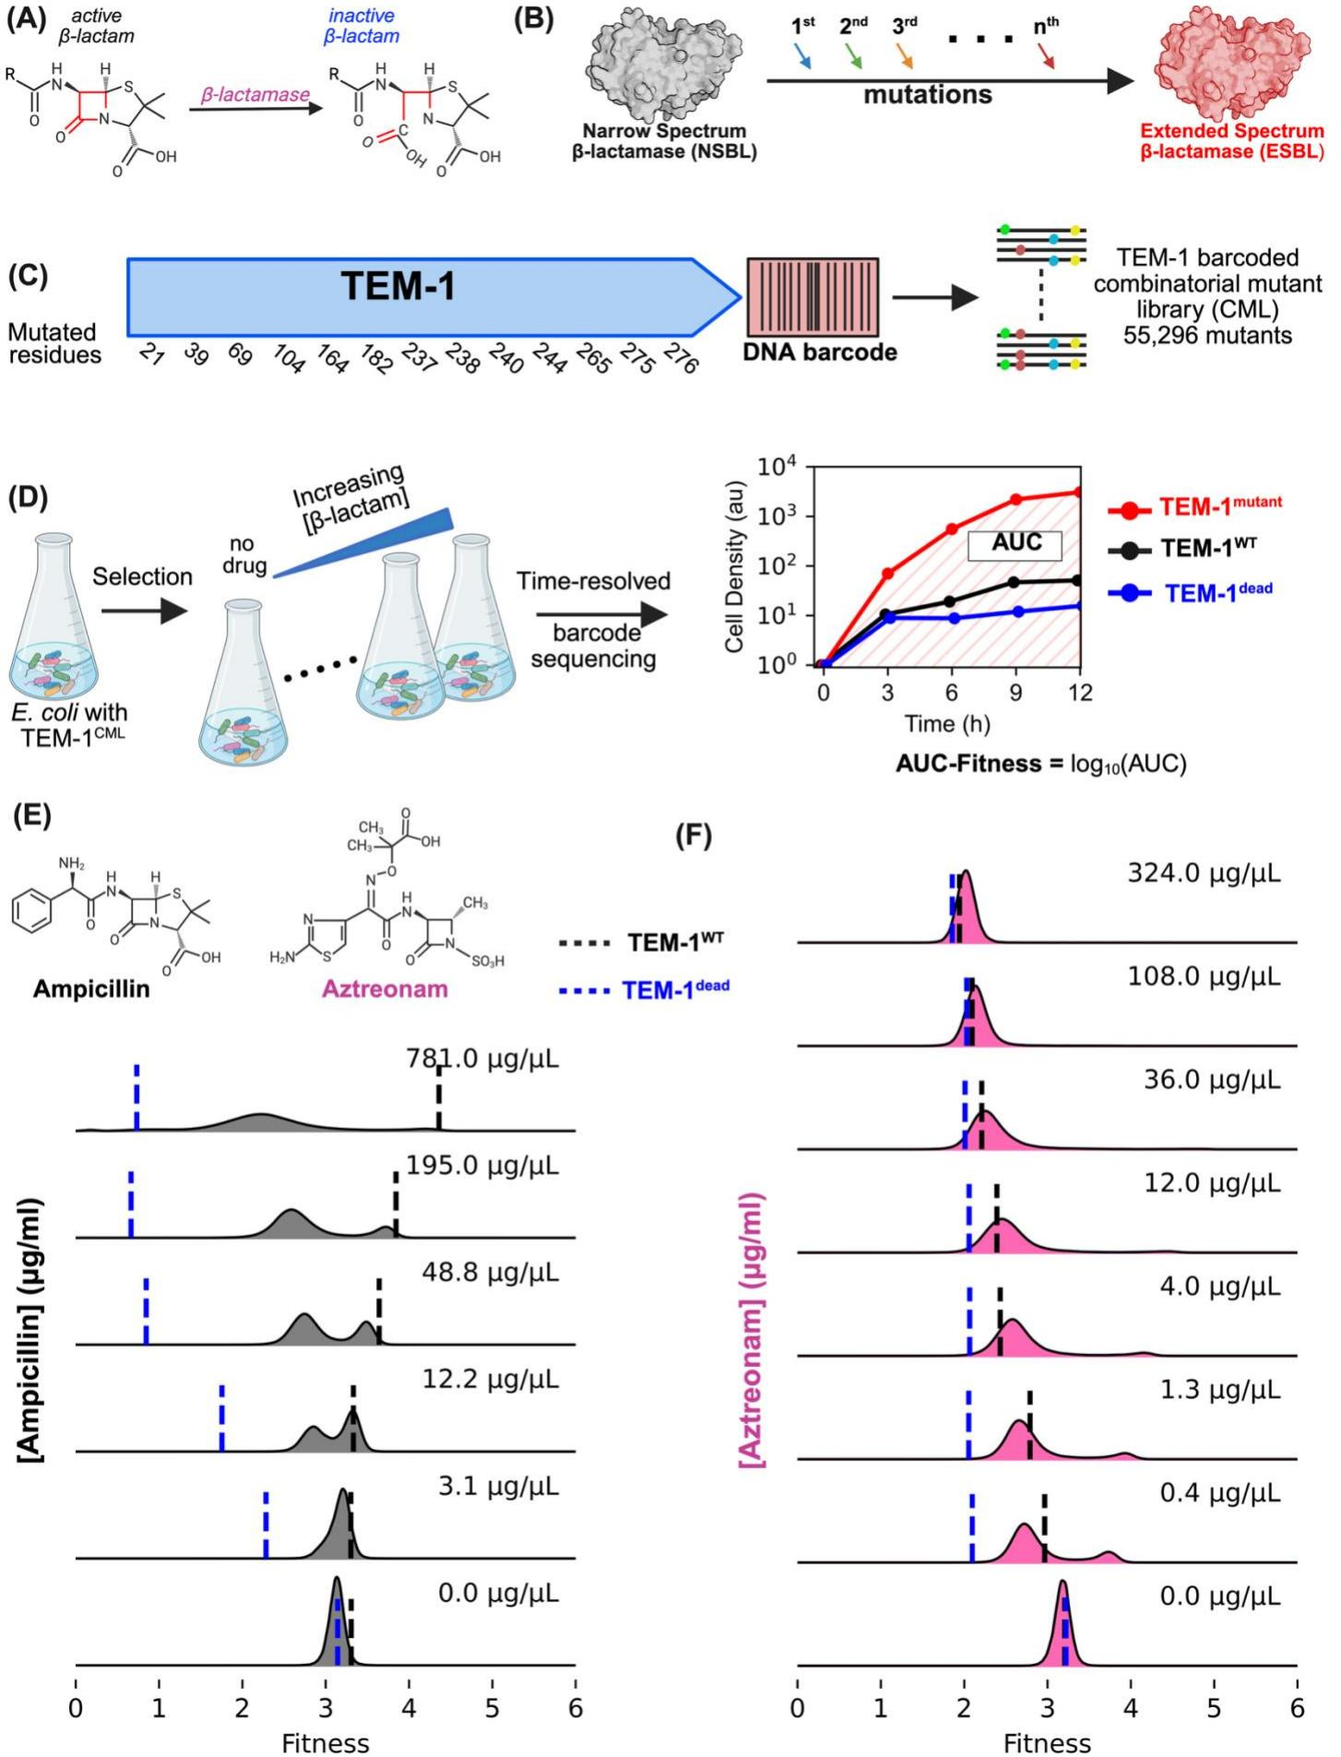
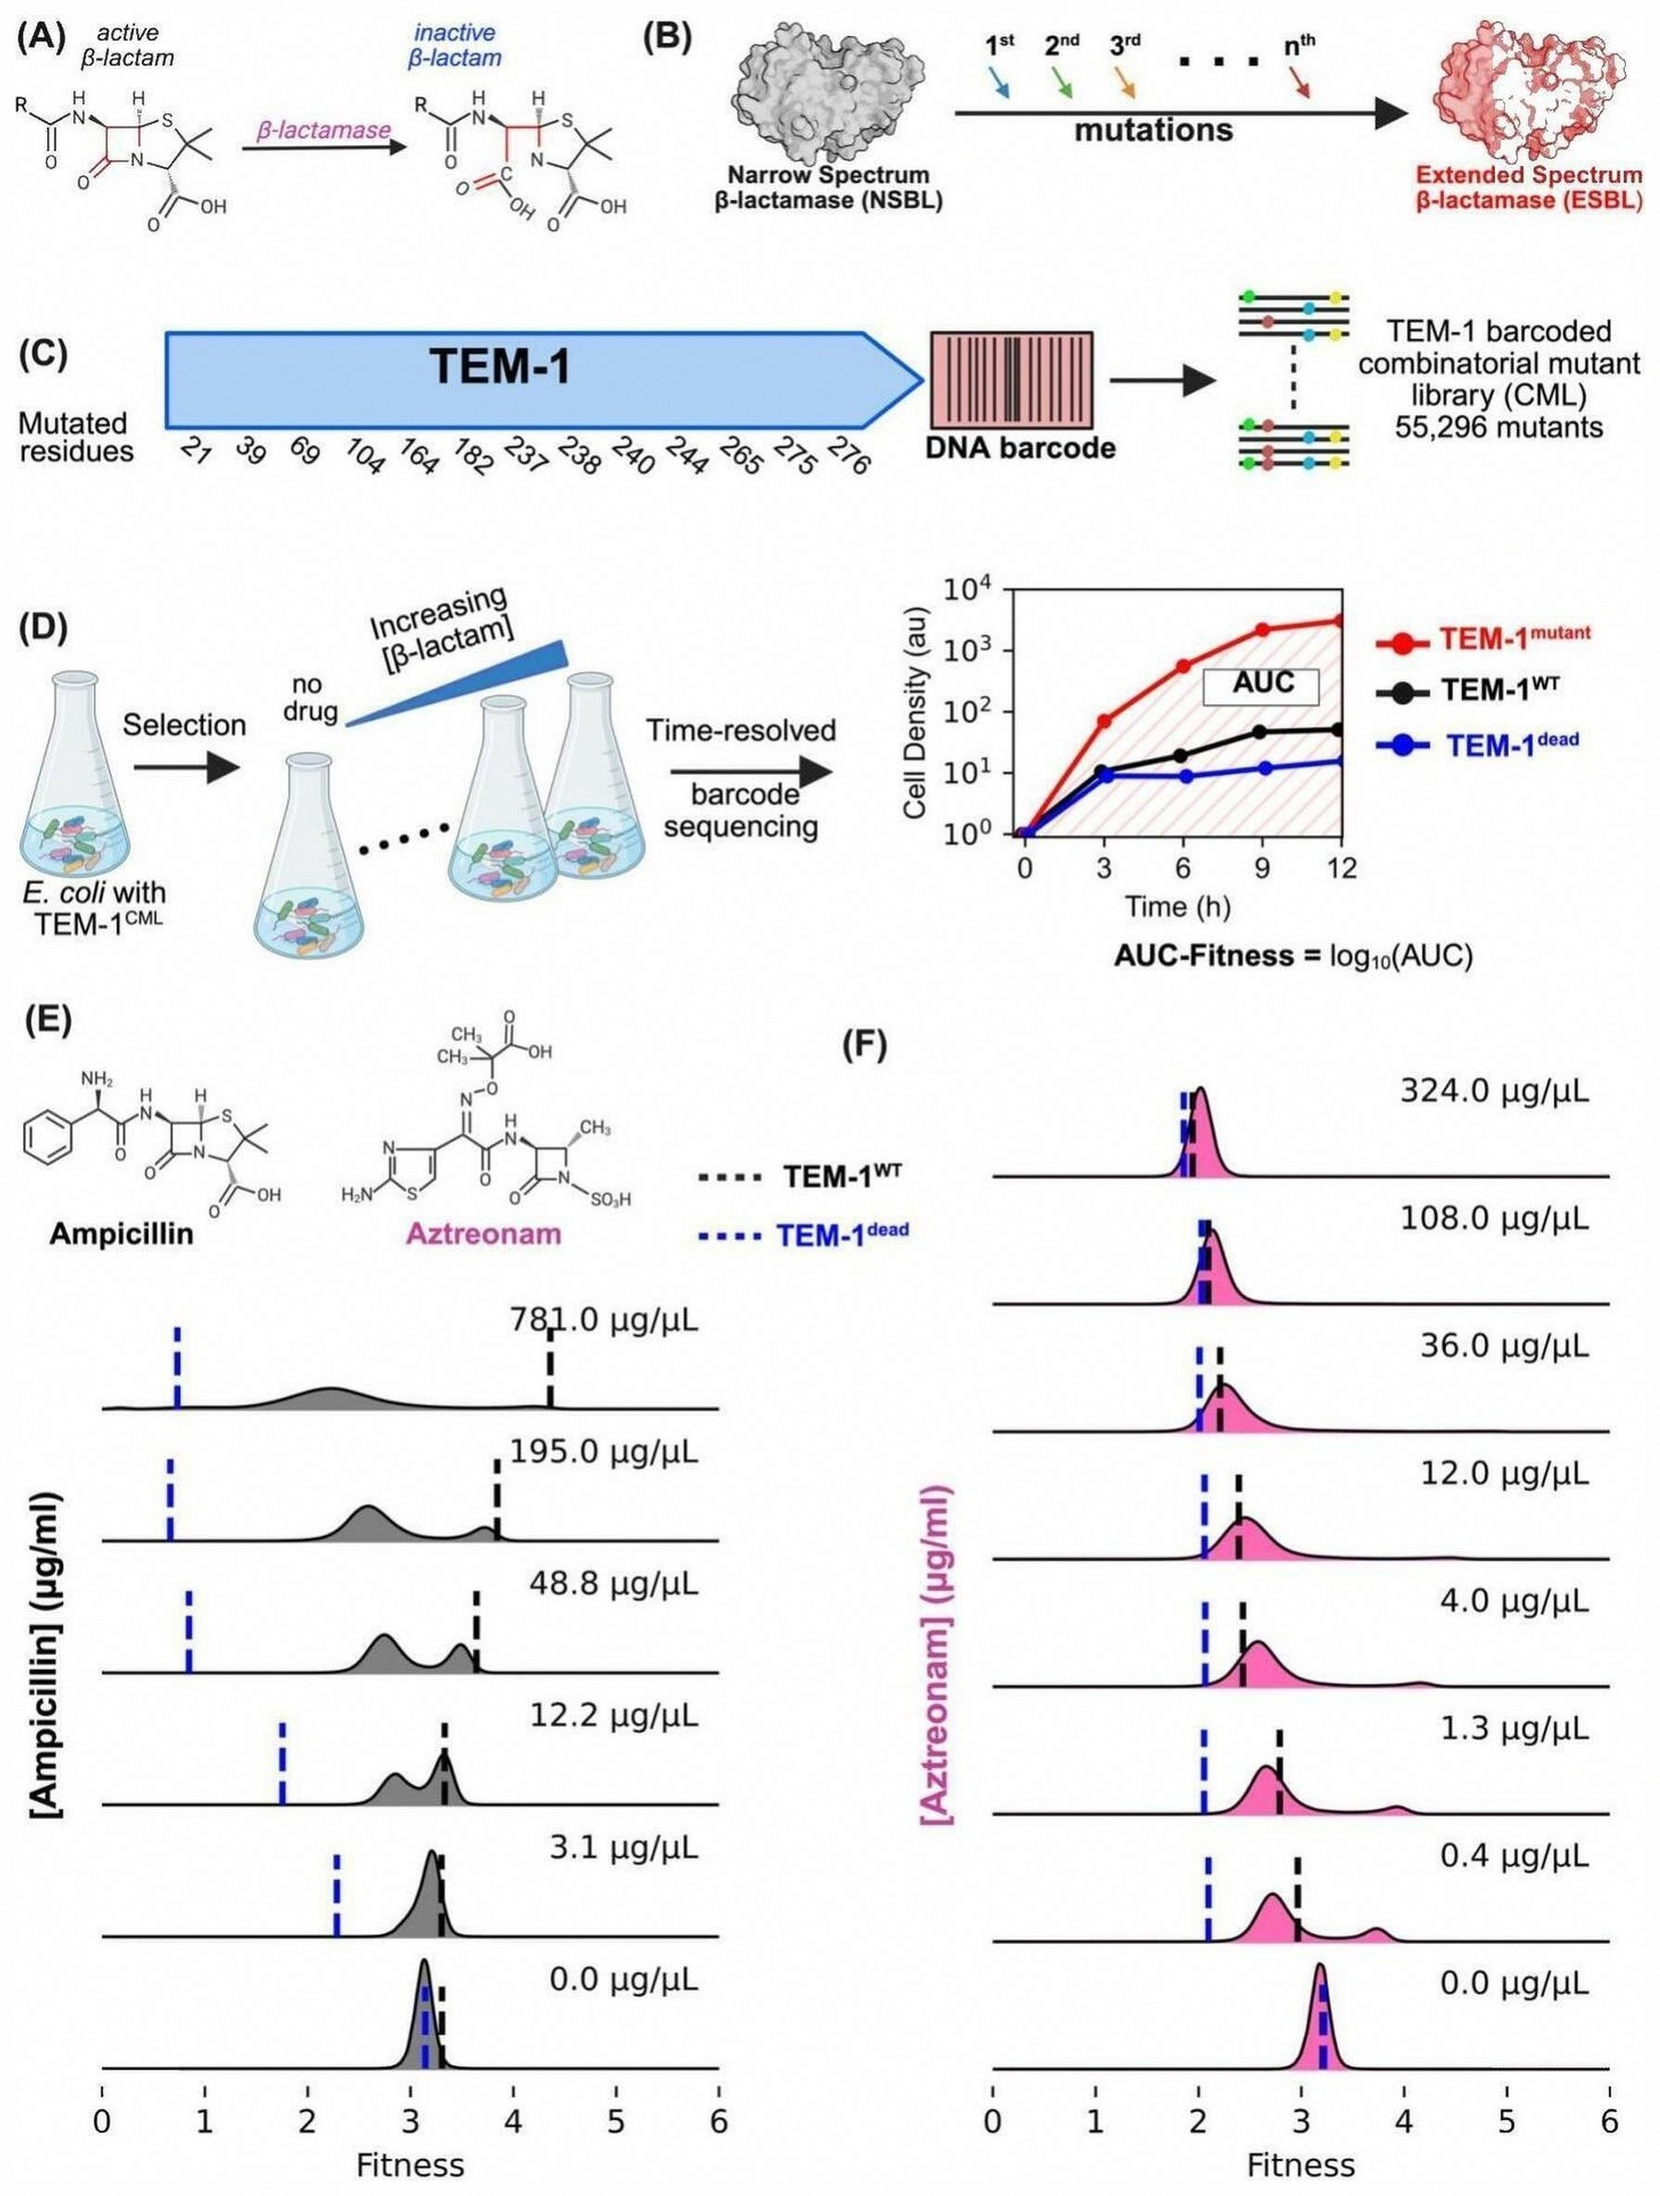
Upgrade figure quality, center content at 720px, add paper texture
Replace science figures with higher-resolution source images and serve
them at 720px with 2x density and quality=95. Standardize max-width and
margin-inline centering across all science pages. Add subtle paper-grain
body texture, enlarge small avatars, expand antibiotic resistance
publication list, and include figure sanitization script.

diff --git a/src/styles/global.css b/src/styles/global.css
@@ -149,6 +149,8 @@ body {
   font-weight: 400;
   color: var(--color-gray-600);
   background-color: var(--color-white);
+  background-image: url('/textures/paper-grain.png');
+  background-repeat: repeat;
 }
 
 h1, h2, h3, h4, h5, h6 {

diff --git a/scripts/sanitize-figures.py b/scripts/sanitize-figures.py
@@ -1,0 +1,297 @@
+#!/usr/bin/env python3
+"""
+Asset sanitization pipeline for Toprak Lab science figures.
+
+Processes all images in src/assets/images/science/:
+  1. Backup originals
+  2. Trim whitespace borders + add uniform 16px margin (unless skip_trim)
+  3. Normalize color profile to sRGB
+  4. LANCZOS upscale (if width < 1800px)
+  5. Apply subtle brush texture overlay on white areas (figures only)
+  6. Save (PNG for transparency/line-art, JPEG 95 for photos)
+
+Also generates public/textures/paper-grain.png (512x512 tileable).
+"""
+
+import shutil
+import subprocess
+from pathlib import Path
+
+import numpy as np
+from PIL import Image
+
+# ── Paths ──
+ROOT = Path(__file__).resolve().parent.parent
+SCIENCE_DIR = ROOT / "src" / "assets" / "images" / "science"
+ORIGINALS_DIR = SCIENCE_DIR / ".originals"
+TEXTURES_DIR = ROOT / "public" / "textures"
+
+TARGET_WIDTH = 1800  # 2.5x the 720px CSS max-width
+LOGO_TARGET = 1024   # 2x the 512px original for retina at 48px CSS
+MARGIN_PX = 16
+TEXTURE_OPACITY = 0.035  # ~3.5%
+NOISE_AMPLITUDE = 10     # 0-255 scale
+
+# Images and their properties
+IMAGES = {
+    "palmer-2015-delayed-commitment.jpg":       {"is_logo": False, "skip_trim": False, "format": "jpg"},
+    "palmer-2015-fitness-landscape.jpg":        {"is_logo": False, "skip_trim": False, "format": "jpg"},
+    "chevereau-2015-evolutionary-dynamics.jpg": {"is_logo": False, "skip_trim": False, "format": "jpg"},
+    "lyon-2025-fig1.jpg":                       {"is_logo": False, "skip_trim": False, "format": "jpg"},
+    "lyon-2025-fig3.jpg":                       {"is_logo": False, "skip_trim": False, "format": "jpg"},
+    "gaszek-2025-fig1.jpg":                     {"is_logo": False, "skip_trim": False, "format": "jpg"},
+    "gaszek-2025-fig2.jpg":                     {"is_logo": False, "skip_trim": False, "format": "jpg"},
+    "biomarker-pipeline-schematic.png":         {"is_logo": False, "skip_trim": False, "format": "png"},
+    "coskun-2025-fig1.png":                     {"is_logo": False, "skip_trim": False, "format": "png"},
+    "earlymarker-logo.png":                     {"is_logo": True,  "skip_trim": True,  "format": "png"},
+}
+
+
+def run_cmd(cmd: list[str], desc: str = "") -> subprocess.CompletedProcess:
+    """Run a shell command, raise on failure."""
+    print(f"  {desc}: {' '.join(str(c) for c in cmd)}")
+    result = subprocess.run(cmd, capture_output=True, text=True)
+    if result.returncode != 0:
+        print(f"  ERROR: {result.stderr.strip()}")
+        raise RuntimeError(f"Command failed: {' '.join(str(c) for c in cmd)}")
+    return result
+
+
+def backup(src: Path):
+    """Copy original to .originals/ if not already backed up."""
+    ORIGINALS_DIR.mkdir(parents=True, exist_ok=True)
+    dest = ORIGINALS_DIR / src.name
+    if not dest.exists():
+        shutil.copy2(src, dest)
+        print(f"  Backed up → {dest.name}")
+    else:
+        print(f"  Backup exists: {dest.name}")
+
+
+def trim_whitespace(img_path: Path, tmp_dir: Path) -> Path:
+    """Trim whitespace borders with ImageMagick, then add 16px uniform margin."""
+    trimmed = tmp_dir / f"trimmed_{img_path.name}"
+
+    # ImageMagick trim: flatten alpha onto white, add 1px white border so
+    # -trim always references pure white, then trim with 5% fuzz to catch
+    # near-white backgrounds (~249-252 per channel).
+    run_cmd(
+        [
+            "magick", str(img_path),
+            "-background", "white", "-flatten",
+            "-bordercolor", "white", "-border", "1",
+            "-fuzz", "5%", "-trim", "+repage",
+            str(trimmed),
+        ],
+        desc="Trim",
+    )
+
+    # Add uniform margin with Pillow
+    img = Image.open(trimmed)
+    new_w = img.width + 2 * MARGIN_PX
+    new_h = img.height + 2 * MARGIN_PX
+
+    # Detect background color from corners for margin fill
+    bg_color = _detect_bg_color(img)
+    padded = Image.new(img.mode, (new_w, new_h), bg_color)
+    padded.paste(img, (MARGIN_PX, MARGIN_PX))
+    padded.save(trimmed)
+    print(f"  Added {MARGIN_PX}px margin → {new_w}×{new_h}")
+
+    return trimmed
+
+
+def _detect_bg_color(img: Image.Image):
+    """Sample corner pixels to detect background color."""
+    pixels = []
+    w, h = img.size
+    for x, y in [(0, 0), (w-1, 0), (0, h-1), (w-1, h-1)]:
+        pixels.append(img.getpixel((x, y)))
+
+    if img.mode == "RGBA":
+        return tuple(int(np.mean([p[i] for p in pixels])) for i in range(4))
+    elif img.mode == "RGB":
+        return tuple(int(np.mean([p[i] for p in pixels])) for i in range(3))
+    else:
+        return int(np.mean(pixels))
+
+
+def normalize_color_profile(img_path: Path, tmp_dir: Path) -> Path:
+    """Strip embedded profiles, normalize to sRGB 8-bit."""
+    output = tmp_dir / f"srgb_{img_path.name}"
+    run_cmd(
+        ["magick", str(img_path), "-strip", "-colorspace", "sRGB", "-depth", "8", str(output)],
+        desc="Color profile"
+    )
+    return output
+
+
+def pil_upscale(img_path: Path, tmp_dir: Path, target_w: int) -> Path:
+    """LANCZOS upscale to target width — clean and sharp for scientific figures."""
+    img = Image.open(img_path)
+    if img.width >= target_w:
+        print(f"  Skip upscale: {img.width}px >= {target_w}px target")
+        return img_path
+    ratio = target_w / img.width
+    new_h = int(img.height * ratio)
+    resized = img.resize((target_w, new_h), Image.LANCZOS)
+    output = tmp_dir / f"upscaled_{img_path.name}"
+    resized.save(output, "PNG")
+    print(f"  LANCZOS resize {img.width}x{img.height} -> {target_w}x{new_h}")
+    return output
+
+
+def logo_upscale(img_path: Path, tmp_dir: Path) -> Path:
+    """Simple LANCZOS upscale for the logo. No AI upscaling, no trim, no texture."""
+    img = Image.open(img_path)
+    if img.width >= LOGO_TARGET:
+        print(f"  Skip logo upscale: {img.width}px ≥ {LOGO_TARGET}px target")
+        return img_path
+
+    ratio = LOGO_TARGET / img.width
+    new_h = int(img.height * ratio)
+    resized = img.resize((LOGO_TARGET, new_h), Image.LANCZOS)
+    output = tmp_dir / f"upscaled_{img_path.name}"
+    resized.save(output, "PNG")
+    print(f"  Logo LANCZOS {img.width}×{img.height} → {LOGO_TARGET}×{new_h}")
+    return output
+
+
+def apply_brush_texture(img_path: Path) -> Image.Image:
+    """Apply subtle warm grain texture to white/light areas only."""
+    img = Image.open(img_path).convert("RGB")
+    arr = np.array(img, dtype=np.float64)
+
+    # Generate noise layer
+    rng = np.random.default_rng(42)
+    noise = rng.normal(0, NOISE_AMPLITUDE, arr.shape)
+
+    # Warm tint: shift noise slightly warm (more red, less blue)
+    noise[:, :, 0] += 2   # red slightly warmer
+    noise[:, :, 1] += 1   # green slightly warmer
+    noise[:, :, 2] -= 1   # blue slightly cooler
+
+    # Luminance mask: only apply texture to light areas (L > 200)
+    luminance = 0.299 * arr[:, :, 0] + 0.587 * arr[:, :, 1] + 0.114 * arr[:, :, 2]
+    # Smooth transition from L=180 to L=220
+    mask = np.clip((luminance - 180) / 40, 0, 1)
+    mask = np.stack([mask] * 3, axis=-1)
+
+    # Apply with opacity
+    textured = arr + noise * mask * TEXTURE_OPACITY
+    textured = np.clip(textured, 0, 255).astype(np.uint8)
+
+    return Image.fromarray(textured)
+
+
+def generate_paper_grain():
+    """Generate a 512×512 tileable paper grain texture."""
+    TEXTURES_DIR.mkdir(parents=True, exist_ok=True)
+    output = TEXTURES_DIR / "paper-grain.png"
+
+    size = 512
+    rng = np.random.default_rng(7)
+
+    # Base: warm off-white
+    base = np.full((size, size, 4), [252, 250, 247, 0], dtype=np.uint8)
+
+    # Add noise
+    noise = rng.normal(0, 6, (size, size))
+    # Make tileable by mirroring edges
+    blend = 32
+    for i in range(blend):
+        t = i / blend
+        noise[i, :] = noise[i, :] * t + noise[size - 1 - i, :] * (1 - t)
+        noise[:, i] = noise[:, i] * t + noise[:, size - 1 - i] * (1 - t)
+
+    # Slight warm bias
+    warm_noise_r = np.clip(noise + 2, -20, 20)
+    warm_noise_g = np.clip(noise + 1, -20, 20)
+    warm_noise_b = np.clip(noise - 1, -20, 20)
+
+    # Very low opacity — alpha ~6-8 (out of 255)
+    alpha = np.clip(np.abs(noise) * 1.2, 0, 12).astype(np.uint8)
+
+    base[:, :, 0] = np.clip(128 + warm_noise_r, 0, 255).astype(np.uint8)
+    base[:, :, 1] = np.clip(128 + warm_noise_g, 0, 255).astype(np.uint8)
+    base[:, :, 2] = np.clip(128 + warm_noise_b, 0, 255).astype(np.uint8)
+    base[:, :, 3] = alpha
+
+    img = Image.fromarray(base, "RGBA")
+    img.save(output, "PNG", optimize=True)
+    size_kb = output.stat().st_size / 1024
+    print(f"Generated paper-grain.png: {size}×{size}, {size_kb:.1f} KB")
+
+
+def process_image(name: str, props: dict):
+    """Full processing pipeline for a single image."""
+    src = SCIENCE_DIR / name
+    if not src.exists():
+        print(f"SKIP: {name} not found")
+        return
+
+    print(f"\n{'='*60}")
+    print(f"Processing: {name}")
+    print(f"{'='*60}")
+
+    # Create temp working dir
+    tmp_dir = SCIENCE_DIR / ".tmp"
+    tmp_dir.mkdir(exist_ok=True)
+
+    try:
+        # 1. Backup
+        backup(src)
+
+        current = src
+
+        if props["is_logo"]:
+            # Logo: simple LANCZOS upscale, skip trim and texture
+            current = logo_upscale(current, tmp_dir)
+            result = Image.open(current)
+        else:
+            # 2. Trim whitespace (unless skip_trim)
+            if not props.get("skip_trim", False):
+                current = trim_whitespace(current, tmp_dir)
+
+            # 3. Normalize color profile
+            current = normalize_color_profile(current, tmp_dir)
+
+            # 4. Upscale
+            current = pil_upscale(current, tmp_dir, TARGET_WIDTH)
+
+            # 5. Brush texture overlay
+            result = apply_brush_texture(current)
+
+        # 6. Save
+        output = SCIENCE_DIR / name
+        if props["format"] == "jpg":
+            result.save(output, "JPEG", quality=95)
+        else:
+            result.save(output, "PNG", optimize=True)
+
+        size_kb = output.stat().st_size / 1024
+        print(f"  Saved: {output.name} ({result.width}×{result.height}, {size_kb:.1f} KB)")
+
+    finally:
+        # Clean up temp files
+        shutil.rmtree(tmp_dir, ignore_errors=True)
+
+
+def main():
+    print("Toprak Lab Figure Sanitization Pipeline")
+    print("=" * 60)
+
+    # Generate tileable paper grain texture
+    generate_paper_grain()
+
+    # Process all images
+    for name, props in IMAGES.items():
+        process_image(name, props)
+
+    print(f"\n{'='*60}")
+    print("Done! Originals saved in .originals/")
+    print(f"{'='*60}")
+
+
+if __name__ == "__main__":
+    main()
